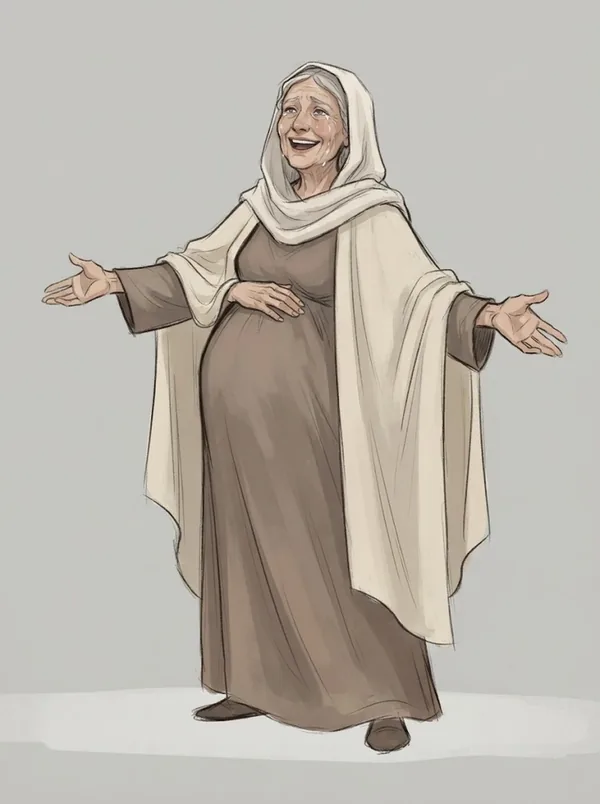
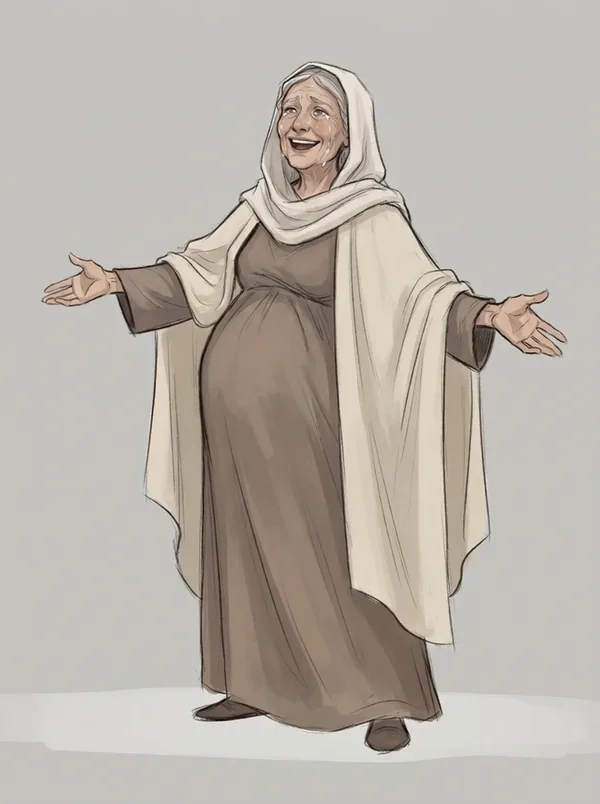
Nuevas imágenes de Santa Isabel y Santa Mónica
Claude-Session: https://claude.ai/code/session_01X8yUa1PNiuxEw1oE5aBwqR

Changed region(s): [[0.33, 0.342, 0.51, 0.4042]]

diff --git a/data/imagenes.js b/data/imagenes.js
@@ -1,3 +1,3 @@
 /* Generado por tools/actualizar_imagenes.py: cromos que ya tienen imagen */
 window.IMAGENES = {"1": "webp", "2": "webp", "3": "webp", "4": "webp", "5": "webp", "6": "webp", "7": "webp", "8": "webp", "9": "webp", "10": "webp", "11": "webp", "12": "webp", "13": "webp", "14": "webp", "15": "webp", "16": "webp", "17": "webp", "18": "webp", "19": "webp", "20": "webp", "21": "webp", "22": "webp", "23": "webp", "24": "webp", "25": "webp", "26": "webp", "27": "webp", "28": "webp", "29": "webp", "30": "webp", "31": "webp", "32": "webp", "33": "webp", "34": "webp", "35": "webp", "36": "webp", "37": "webp", "38": "webp", "39": "webp", "40": "webp", "41": "webp", "42": "webp", "43": "webp", "44": "webp", "45": "webp", "46": "webp", "47": "webp", "48": "webp", "49": "webp", "50": "webp", "51": "webp", "52": "webp", "53": "webp", "54": "webp", "55": "webp", "56": "webp", "57": "webp", "58": "webp", "59": "webp", "60": "webp", "61": "webp", "62": "webp", "63": "webp", "64": "webp", "65": "webp", "66": "webp", "67": "webp", "68": "webp", "69": "webp", "70": "webp", "71": "webp", "72": "webp", "73": "webp", "74": "webp", "75": "webp", "76": "webp", "77": "webp", "78": "webp", "79": "webp", "80": "webp", "81": "webp", "82": "webp", "83": "webp", "84": "webp", "85": "webp", "86": "webp", "87": "webp", "88": "webp", "89": "webp", "90": "webp", "91": "webp", "92": "webp", "93": "webp", "94": "webp", "95": "webp", "96": "webp", "97": "webp", "98": "webp", "99": "webp", "100": "webp", "101": "webp", "102": "webp", "103": "webp", "104": "webp", "105": "webp", "106": "webp", "107": "webp", "108": "webp", "109": "webp", "110": "webp", "111": "webp", "112": "webp", "113": "webp", "114": "webp", "115": "webp", "116": "webp", "117": "webp", "118": "webp", "119": "webp", "120": "webp", "121": "webp", "122": "webp", "123": "webp", "124": "webp", "125": "webp", "126": "webp", "127": "webp", "128": "webp", "129": "webp", "130": "webp", "131": "webp", "132": "webp", "133": "webp", "134": "webp", "135": "webp", "136": "webp", "137": "webp", "138": "webp", "139": "webp", "140": "webp", "141": "webp", "142": "webp", "143": "webp", "144": "webp", "145": "webp", "146": "webp", "147": "webp", "148": "webp", "149": "webp", "150": "webp", "151": "webp", "152": "webp", "153": "webp", "154": "webp", "155": "webp", "156": "webp", "157": "webp", "158": "webp", "159": "webp", "160": "webp", "161": "webp", "162": "webp", "163": "webp", "164": "webp", "165": "webp", "166": "webp", "167": "webp", "168": "webp", "169": "webp", "170": "webp", "171": "webp", "172": "webp", "173": "webp", "174": "webp", "175": "webp", "176": "webp", "177": "webp", "178": "webp", "179": "webp", "180": "webp", "181": "webp", "182": "webp", "183": "webp", "184": "webp", "185": "webp", "186": "webp", "187": "webp", "188": "webp", "189": "webp", "190": "webp", "191": "webp", "192": "webp", "193": "webp", "194": "webp", "195": "webp", "196": "webp", "197": "webp", "198": "webp", "199": "webp", "200": "webp", "201": "webp", "202": "webp", "203": "webp", "204": "webp", "205": "webp", "206": "webp", "207": "webp", "208": "webp", "209": "webp", "210": "webp", "211": "webp", "212": "webp", "213": "webp", "214": "webp", "215": "webp", "216": "webp", "217": "webp", "218": "webp", "219": "webp", "220": "webp", "221": "webp", "222": "webp", "223": "webp", "224": "webp", "225": "webp", "226": "webp", "227": "webp", "228": "webp", "229": "webp", "230": "webp", "231": "webp", "232": "webp", "233": "webp", "234": "webp", "235": "webp", "236": "webp", "237": "webp", "238": "webp", "239": "webp", "240": "webp", "241": "webp", "242": "webp", "243": "webp", "244": "webp", "245": "webp", "246": "webp", "247": "webp", "248": "webp", "249": "webp", "250": "webp", "251": "webp", "252": "webp", "253": "webp", "254": "webp", "255": "webp", "256": "webp", "257": "webp", "258": "webp", "259": "webp", "260": "webp", "261": "webp", "262": "webp", "263": "webp", "264": "webp", "265": "webp", "266": "webp", "267": "webp", "268": "webp", "269": "webp", "270": "webp", "271": "webp", "272": "webp", "273": "webp", "274": "webp", "275": "webp", "276": "webp", "277": "webp", "278": "webp", "279": "webp", "280": "webp", "281": "webp", "282": "webp", "283": "webp", "284": "webp", "285": "webp", "286": "webp", "287": "webp", "288": "webp", "289": "webp", "290": "webp", "291": "webp", "292": "webp", "293": "webp", "294": "webp", "295": "webp", "296": "webp", "297": "webp", "298": "webp", "299": "webp", "300": "webp", "301": "webp", "302": "webp", "303": "webp", "304": "webp", "305": "webp", "306": "webp", "307": "webp", "308": "webp", "309": "webp", "310": "webp", "311": "webp", "312": "webp", "313": "webp", "314": "webp", "315": "webp", "316": "webp", "317": "webp", "318": "webp", "319": "webp", "320": "webp", "321": "webp", "322": "webp", "323": "webp", "324": "webp", "325": "webp", "326": "webp", "327": "webp", "328": "webp", "329": "webp", "330": "webp", "331": "webp", "332": "webp", "333": "webp", "334": "webp", "335": "webp", "336": "webp", "337": "webp", "338": "webp", "339": "webp", "340": "webp", "341": "webp", "342": "webp", "343": "webp", "344": "webp", "345": "webp", "346": "webp", "347": "webp", "348": "webp", "349": "webp", "350": "webp", "351": "webp", "352": "webp", "353": "webp", "354": "webp", "355": "webp", "356": "webp", "357": "webp", "358": "webp", "359": "webp", "360": "webp", "361": "webp", "362": "webp", "363": "webp", "364": "webp", "365": "webp", "366": "webp", "367": "webp", "368": "webp", "369": "webp", "370": "webp", "371": "webp", "372": "webp", "373": "webp", "374": "webp", "375": "webp", "376": "webp", "377": "webp", "378": "webp", "379": "webp", "380": "webp", "381": "webp", "382": "webp", "383": "webp", "384": "webp", "385": "webp", "386": "webp", "387": "webp", "388": "webp", "389": "webp", "390": "webp", "391": "webp", "392": "webp", "393": "webp", "394": "webp", "395": "webp", "396": "webp", "397": "webp", "398": "webp", "399": "webp", "400": "webp", "401": "webp", "402": "webp", "403": "webp", "404": "webp", "405": "webp", "406": "webp", "407": "webp", "408": "webp", "409": "webp", "410": "webp", "411": "webp", "412": "webp", "413": "webp", "414": "webp", "415": "webp", "416": "webp", "417": "webp", "418": "webp", "419": "webp", "420": "webp", "421": "webp", "422": "webp", "423": "webp", "424": "webp", "425": "webp", "426": "webp", "427": "webp", "428": "webp", "429": "webp", "430": "webp", "431": "webp", "432": "webp", "433": "webp", "434": "webp", "435": "webp", "436": "webp", "437": "webp", "438": "webp", "439": "webp", "440": "webp", "441": "webp", "442": "webp", "443": "webp", "444": "webp", "445": "webp", "446": "webp", "447": "webp", "448": "webp", "449": "webp", "450": "webp", "451": "webp", "452": "webp", "453": "webp", "454": "webp", "455": "webp", "456": "webp", "457": "webp", "458": "webp", "459": "webp", "460": "webp", "461": "webp", "462": "webp", "463": "webp", "464": "webp", "465": "webp", "466": "webp", "467": "webp", "468": "webp", "469": "webp", "470": "webp", "471": "webp", "472": "webp", "473": "webp", "474": "webp", "475": "webp", "476": "webp", "477": "webp", "478": "webp", "479": "webp", "480": "webp", "481": "webp", "482": "webp", "483": "webp", "484": "webp", "485": "webp", "486": "webp", "487": "webp", "488": "webp", "489": "webp", "490": "webp", "491": "webp", "492": "webp", "493": "webp", "494": "webp", "495": "webp", "496": "webp", "497": "webp", "498": "webp", "499": "webp", "500": "webp"};
-window.IMAGENES_V = 1793731344;
+window.IMAGENES_V = 1793731595;

diff --git a/index.html b/index.html
@@ -15,7 +15,7 @@
   <link rel="apple-touch-icon" href="icons/apple-touch-icon.png">
   <link rel="preload" href="fonts/outfit-latin.woff2" as="font" type="font/woff2" crossorigin>
   <link rel="preload" href="fonts/grenze-latin.woff2" as="font" type="font/woff2" crossorigin>
-  <link rel="stylesheet" href="css/app.css?v=10">
+  <link rel="stylesheet" href="css/app.css?v=11">
 </head>
 <body>
   <div class="app">
@@ -82,9 +82,9 @@
 
   <div class="toast" id="toast"></div>
 
-  <script src="data/santos.js?v=10"></script>
-  <script src="data/retos.js?v=10"></script>
-  <script src="data/imagenes.js?v=10"></script>
-  <script src="js/app.js?v=10"></script>
+  <script src="data/santos.js?v=11"></script>
+  <script src="data/retos.js?v=11"></script>
+  <script src="data/imagenes.js?v=11"></script>
+  <script src="js/app.js?v=11"></script>
 </body>
 </html>

diff --git a/sw.js b/sw.js
@@ -1,6 +1,6 @@
 /* Service worker: la app funciona sin conexión.
    Sube VERSION cada vez que cambies archivos de la app. */
-const VERSION = "v10";
+const VERSION = "v11";
 const SHELL = `santos-shell-${VERSION}`;
 const IMGS = `santos-img-${VERSION}`;
 const FILES = [
